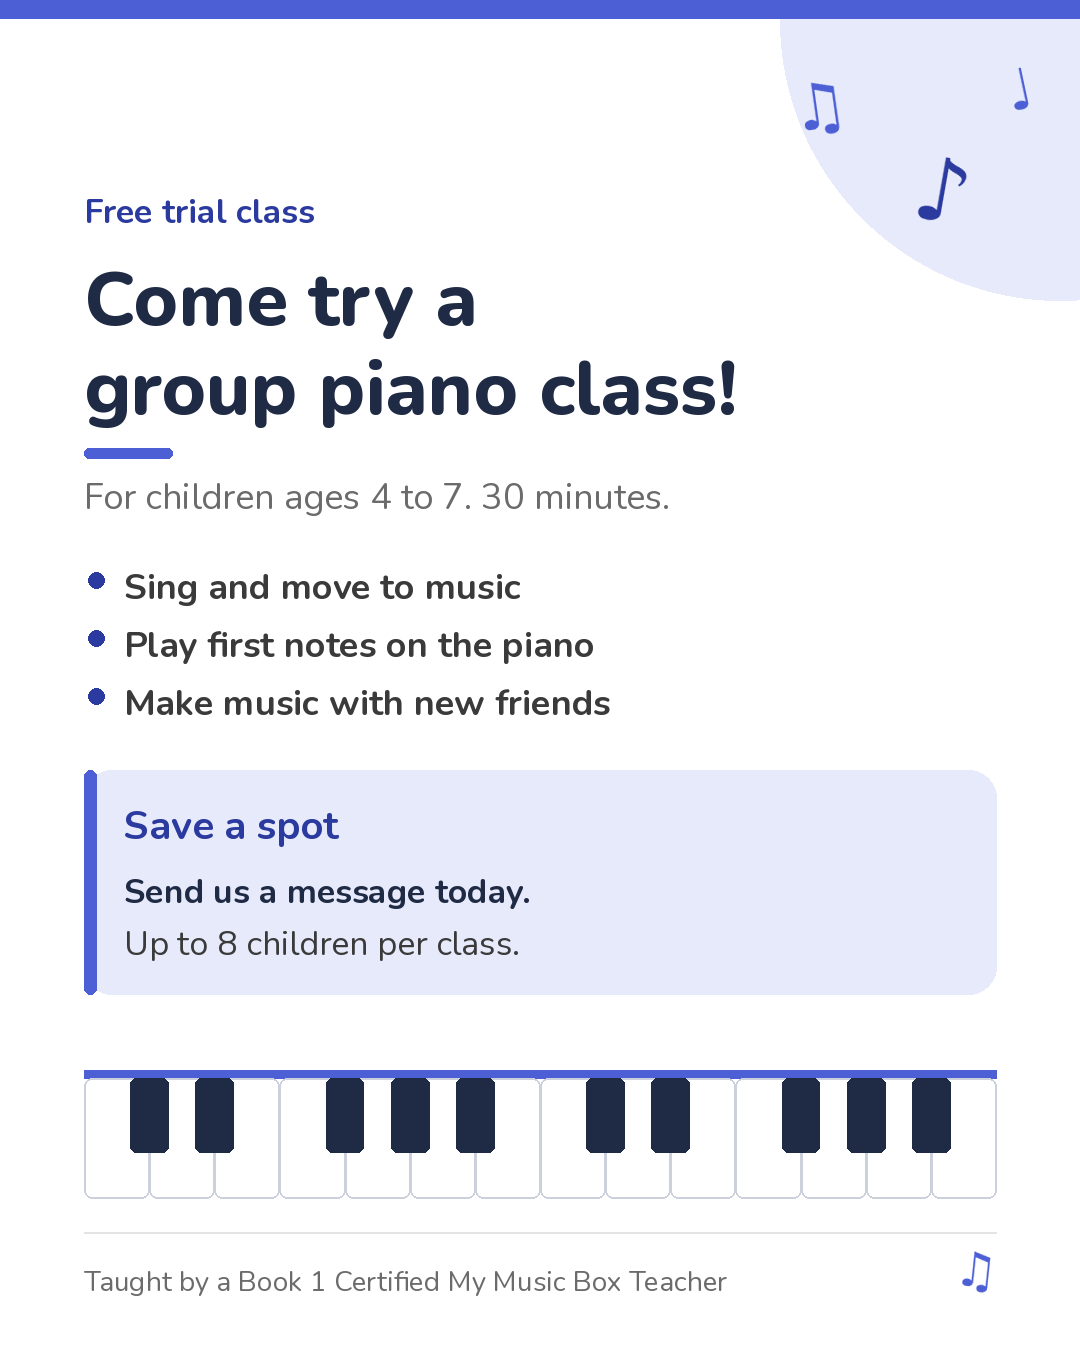
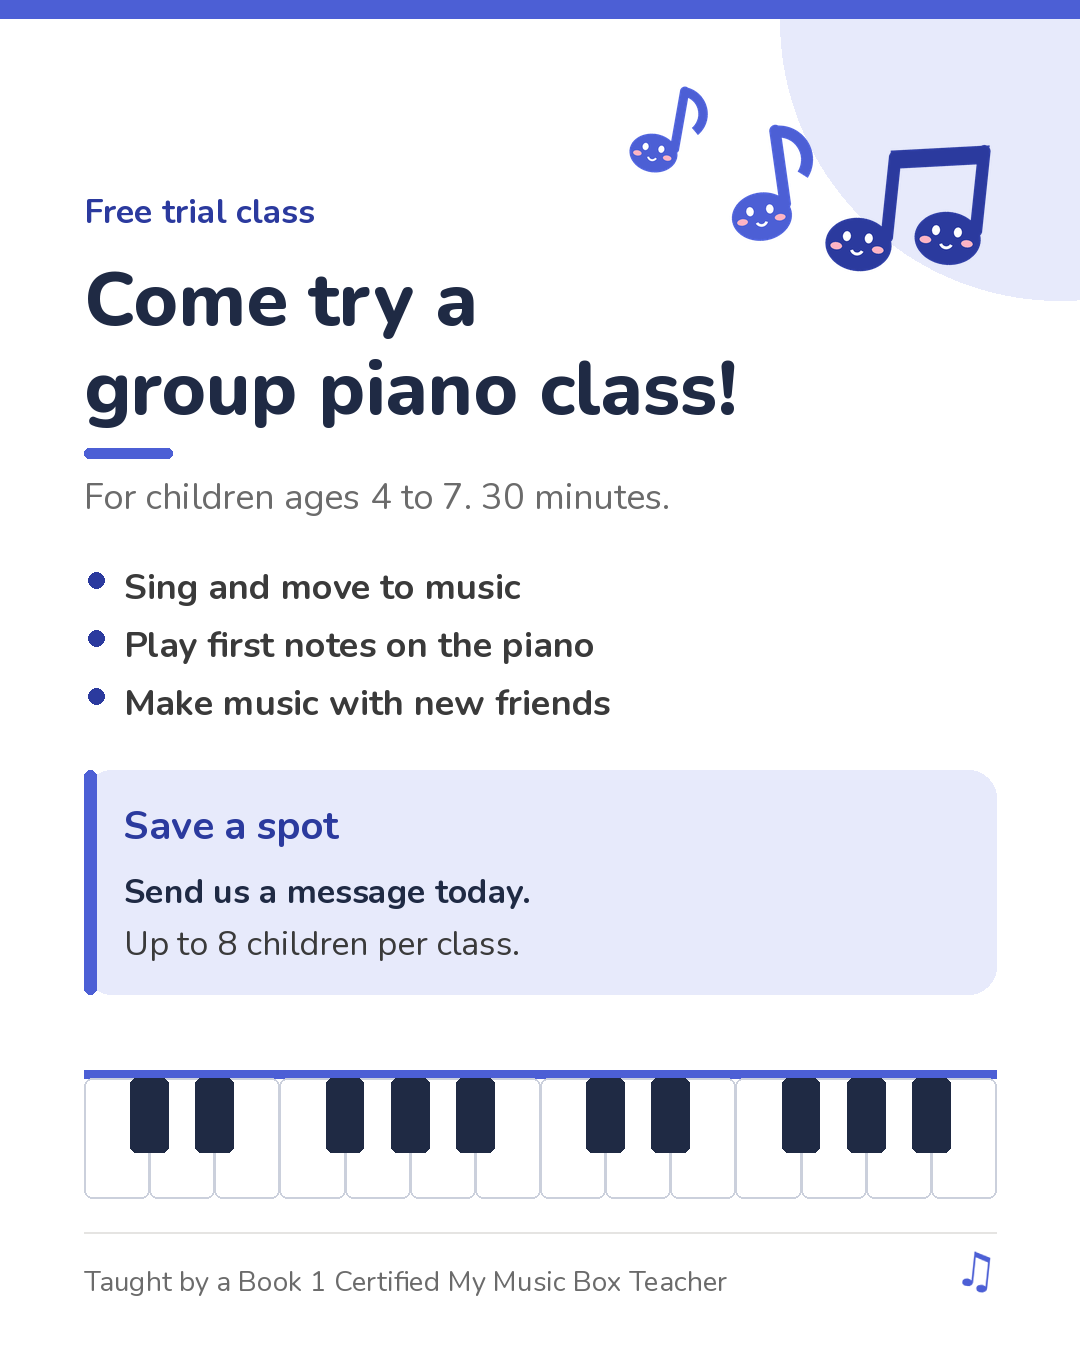
Basic Instagram posts: cute corner notes with faces
Claude-Session: https://claude.ai/code/session_017jNfaDWXAaYtbGkS9QvMyD

Changed region(s): [[0.7639, 0.0933, 0.9167, 0.2178], [0.6722, 0.0622, 0.7944, 0.1867], [0.5806, 0.0622, 0.6722, 0.1244]]

diff --git a/brochures/build_basic_house_style.py b/brochures/build_basic_house_style.py
@@ -289,8 +289,58 @@ def note(im, x, y, size, glyph, color, angle):
 
 
 # (x, y, size, glyph, use accent text color, angle): around the corner shape and the footer
-PNG_NOTES = [(760, 52, 64, 1, False, 8), (868, 120, 88, 0, True, -10), (980, 40, 56, 2, False, 12),
-             (930, H - 120, 48, 1, False, -6)]
+PNG_NOTES = [(930, H - 120, 48, 1, False, -6)]  # small glyph note beside the footer
+
+# cute notes in the top corner: (center x, center y, size, beamed pair?, use accent text color, angle)
+CUTE_NOTES = [(690, 128, 32, False, False, -10), (790, 168, 40, False, False, 8),
+              (905, 205, 44, True, True, -6)]
+BLUSH = "#FFB3C4"
+
+
+def cute_note(im, cx, cy, s, beamed, color, angle):
+    """A chunky note with a round head, a little face and blush; drawn 4x and scaled down."""
+    k = 4
+    S = s * k
+    size = int(S * 7)
+    layer = Image.new("RGBA", (size, size), (0, 0, 0, 0))
+    d = ImageDraw.Draw(layer)
+    ox, oy = size * 0.32, size * 0.7  # first head center
+
+    def head(hx, hy):
+        d.ellipse((hx - 0.75 * S, hy - 0.6 * S, hx + 0.75 * S, hy + 0.6 * S), fill=color)
+        for ex in (-0.28, 0.22):  # eyes
+            d.ellipse((hx + ex * S - 0.09 * S, hy - 0.16 * S - 0.11 * S,
+                       hx + ex * S + 0.09 * S, hy - 0.16 * S + 0.11 * S), fill="white")
+        for bx in (-0.5, 0.45):  # blush
+            d.ellipse((hx + bx * S - 0.13 * S, hy + 0.08 * S - 0.08 * S,
+                       hx + bx * S + 0.13 * S, hy + 0.08 * S + 0.08 * S), fill=BLUSH)
+        d.arc((hx - 0.18 * S, hy - 0.05 * S, hx + 0.14 * S, hy + 0.25 * S), 20, 160,
+              fill="white", width=max(2, int(0.07 * S)))
+
+    def stem(x, y_top, y_bot):
+        w = 0.28 * S
+        d.rounded_rectangle((x - w / 2, y_top, x + w / 2, y_bot), radius=w / 2, fill=color)
+
+    sx1 = ox + 0.62 * S
+    top1 = oy - 2.2 * S
+    stem(sx1, top1, oy - 0.1 * S)
+    if beamed:
+        ox2, oy2 = ox + 2.0 * S, oy - 0.35 * S
+        sx2, top2 = ox2 + 0.62 * S, top1 - 0.35 * S
+        stem(sx2, top2, oy2 - 0.1 * S)
+        bw = 0.42 * S
+        d.polygon([(sx1 - 0.11 * S, top1), (sx2 + 0.11 * S, top2), (sx2 + 0.11 * S, top2 + bw),
+                   (sx1 - 0.11 * S, top1 + bw)], fill=color)
+        head(ox2, oy2)
+    else:  # rounded flag
+        # flag hangs from the stem top: the arc's top point sits exactly on the stem
+        d.arc((sx1 - 0.85 * S, top1, sx1 + 0.85 * S, top1 + 1.7 * S), 270, 40,
+              fill=color, width=int(0.3 * S))
+        d.ellipse((sx1 - 0.14 * S, top1 - 0.02 * S, sx1 + 0.16 * S, top1 + 0.28 * S), fill=color)
+    head(ox, oy)
+    layer = layer.rotate(angle, resample=Image.BICUBIC)
+    layer = layer.resize((size // k, size // k), Image.LANCZOS)
+    im.paste(layer, (int(cx - size / k * 0.45), int(cy - size / k * 0.55)), layer)
 
 
 def tw(d, s, f):
@@ -307,6 +357,8 @@ def page(hue):
     d.text((SIDE, H - 88), CERT_LINE, font=pf(False, 28), fill=GRAY)
     for x, y, size, g, dark, angle in PNG_NOTES:
         note(im, x, y, size, g, txt if dark else band, angle)
+    for x, y, size, beamed, dark, angle in CUTE_NOTES:
+        cute_note(im, x, y, size, beamed, txt if dark else band, angle)
     draw_png_keyboard(d, SIDE, KEYS_TOP, W - 2 * SIDE, KEYS_H, band, tint)
     return im, d, (band, tint, txt)
 
